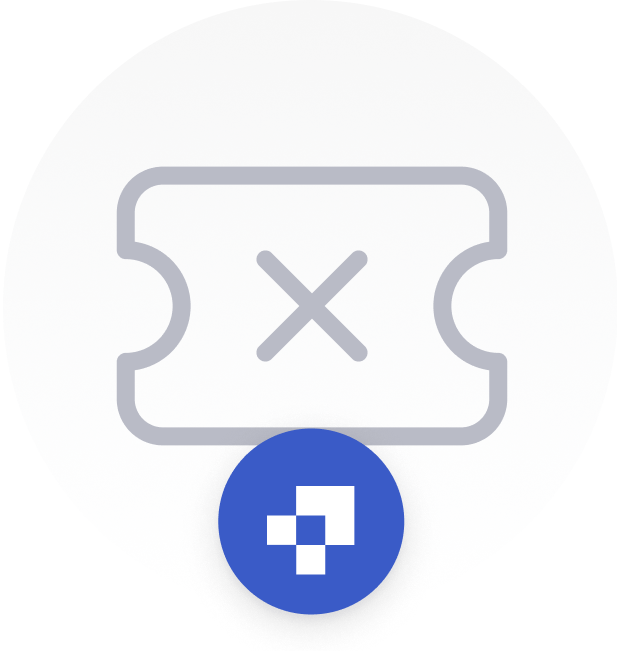
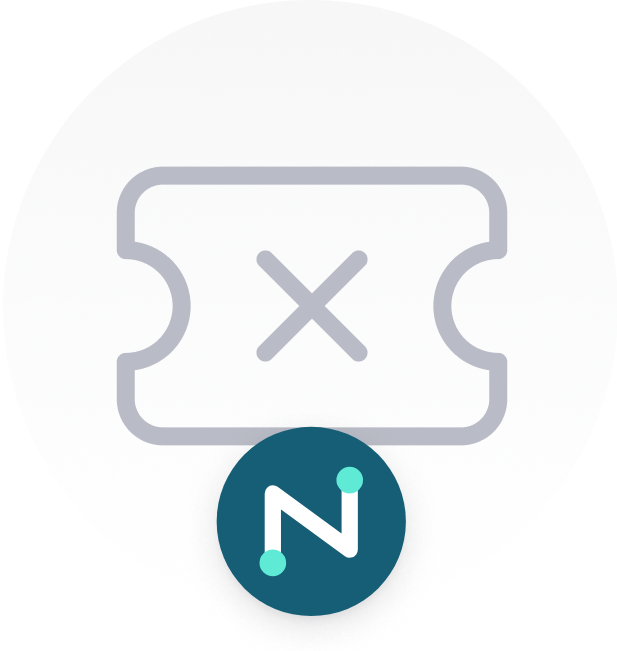
fix(web): Plane's mark and workspace name leave the shipped pictures
The final review found Plane inside four pictures, where neither the guard
nor the text probes can see it:

- workspace-not-available.png and workspace-creation-disabled.png: the blue
  badge carried Plane's pixel mark. It is now Nerve's mark in round form: the
  disc repainted in the tile colour of brand/mark.svg, covering the old blue
  and its anti-aliased edge, with the N stroke and its two end dots drawn
  from mark.svg's geometry; the drop shadow stays.
- project-settings/no-projects-light.png and -dark.png: Plane's mark was four
  tinted squares on the card's grid. Each tinted grid cell is filled from the
  nearest untinted cell one or two periods to its side, so the grid and its
  fade run on.
- disabled-feature/modules-*.webp and views-*.webp: the breadcrumb named a
  "Plane Design" workspace. It reads "Acme Design", a neutral demo name, in
  the old colour, size, weight and baseline; each WebP stays within 0.4% of
  its size.

A sweep of every referenced image at full size (and of propel's
illustrations in both themes) found no other Plane mark, name or address.

The "Workspace not found" picture gets alt="": it is decorative, and the
heading below it says the same.

Changed region(s): [[0.3387, 0.6452, 0.6775, 0.9524]]

diff --git a/web/apps/web/core/layouts/auth-layout/workspace-wrapper.tsx b/web/apps/web/core/layouts/auth-layout/workspace-wrapper.tsx
@@ -158,11 +158,7 @@ export const WorkspaceAuthWrapper = observer(function WorkspaceAuthWrapper(props
           </div>
           <div className="relative flex h-full w-full flex-grow flex-col items-center justify-center space-y-3">
             <div className="relative flex-shrink-0">
-              <img
-                src={WorkSpaceNotAvailable}
-                className="h-[220px] object-contain object-center"
-                alt="Workspace not found"
-              />
+              <img src={WorkSpaceNotAvailable} className="h-[220px] object-contain object-center" alt="" />
             </div>
             <h3 className="text-center text-16 font-semibold">Workspace not found</h3>
             <p className="text-center text-13 text-secondary">
